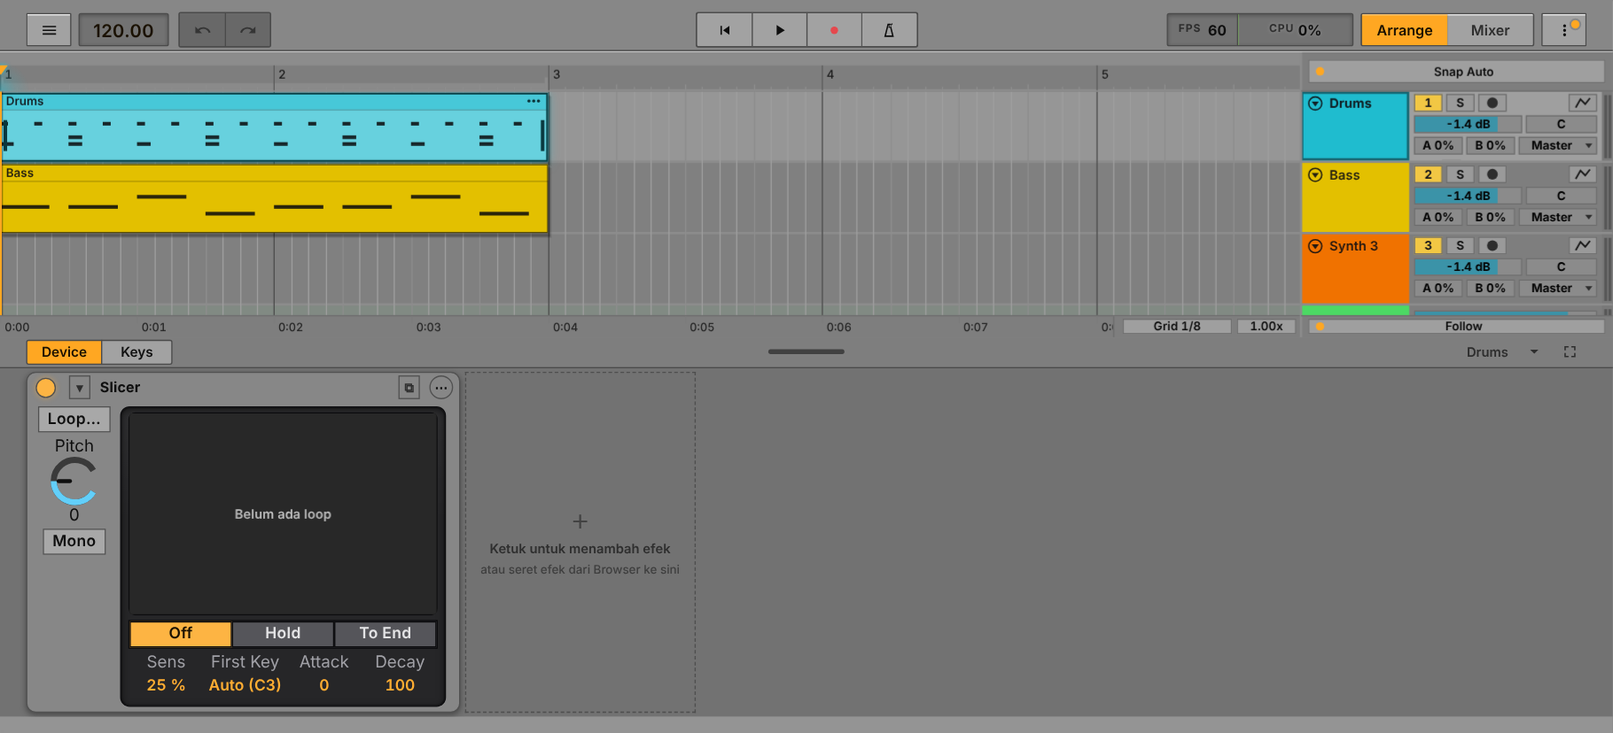
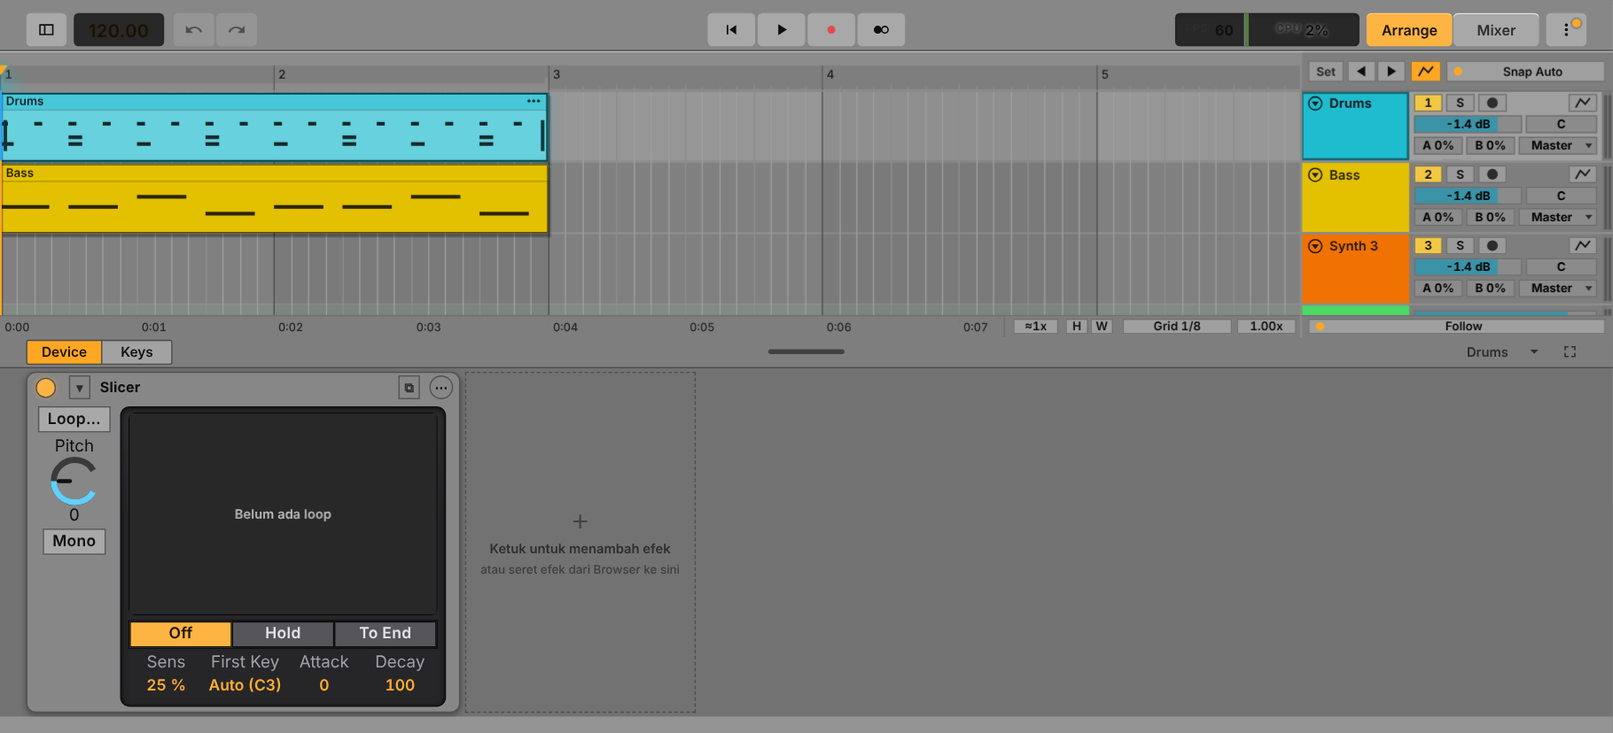
Arrangement: Automation Mode, waveform zoom, themed clip colours; control bar fields; SoundFont list scrolls
- Automation Mode switch over the headers hides / shows the automation lanes; Waveform Vertical
  Zoom badge; clip and header colours follow the theme's Color Intensity / Hue
- control bar: tempo, performance and view switch in the same flat look; lit states tested
- SoundFont: the preset list scrolls inside the card instead of stretching it
- tests: synth display drags, instrument menu, effect quick swap, SoundFont card height

Claude-Session: https://claude.ai/code/session_016R99TjSh2G5U2VqVgMNHhT

diff --git a/js/timeline.js b/js/timeline.js
@@ -2,7 +2,7 @@
 // Gestures follow FL Studio Mobile (tap clip = controls, double-tap = editor, long-tap = menus,
 // right-edge handle = resize, ruler drag = time selection) on an Ableton-style layout.
 import { densify } from './autocurve.js';
-import { C, T, currentTone } from './theme.js';
+import { C, T, currentTone, tone } from './theme.js';
 import { attachGestures, gestureTiming, haptic } from './gesture.js';
 import { menu, ask, modal, toast, clamp } from './ui.js';
 import { checkpoint, revertLast } from './history.js';
@@ -74,12 +74,12 @@ const LANE_B = () => H - BOT;                                  // bottom edge of
 // rows have individual heights: a folded track is FOLD_H tall, the others view.rowH (gliding while a fold animates)
 // below the tracks: the Master row and one row per effect track (Return A/B stay in the mixer), then the "+" row
 // top corner over the headers (Live: Set Locator, Previous / Next Locator, then our Snap switch)
-const cornerRects = () => { const y = 8, h = RULER - 16, x = CW + 6, bw = 24, sw = 30; return { set: { x, y, w: sw, h }, prev: { x: x + sw + 3, y, w: bw, h }, next: { x: x + sw + 3 + bw + 1, y, w: bw, h }, snap: { x: x + sw + 2 * bw + 9, y, w: Math.max(40, HEAD - 12 - (sw + 2 * bw + 9)), h } }; };
+const cornerRects = () => { const y = 8, h = RULER - 16, x = CW + 6, bw = 24, sw = 30; const ax = x + sw + 2 * bw + 8, aw = HEAD > 190 ? 26 : 0; return { set: { x, y, w: sw, h }, prev: { x: x + sw + 3, y, w: bw, h }, next: { x: x + sw + 3 + bw + 1, y, w: bw, h }, auto: { x: ax, y, w: aw, h }, snap: { x: ax + (aw ? aw + 4 : 0), y, w: Math.max(40, HEAD - 6 - (ax - CW) - (aw ? aw + 4 : 0)), h } }; };
 const snapRect = () => cornerRects().snap;
 const songEnd = () => state.tracks.reduce((m, t) => t.clips.reduce((a, c) => Math.max(a, c.start + c.len), m), 0);
 
 const followRect = () => ({ x: CW + 6, y: H - BOT + 3, w: HEAD - 12, h: BOT - 6 });
-const badges = () => (CW < 170 ? [] : [['gridbtn', 'Grid ' + (SNAPS[cfg.snap][0] === 'Auto' ? gridName() : SNAPS[cfg.snap][0]), { x: CW - 150, y: H - BOT + 3, w: 92, h: BOT - 6 }], ['zoombtn', (view.ppt / 0.06).toFixed(2) + 'x', { x: CW - 54, y: H - BOT + 3, w: 50, h: BOT - 6 }], ...(CW < 330 ? [] : [['fith', 'H', { x: CW - 198, y: H - BOT + 3, w: 19, h: BOT - 6 }], ['fitw', 'W', { x: CW - 177, y: H - BOT + 3, w: 19, h: BOT - 6 }]])]);
+const badges = () => (CW < 170 ? [] : [['gridbtn', 'Grid ' + (SNAPS[cfg.snap][0] === 'Auto' ? gridName() : SNAPS[cfg.snap][0]), { x: CW - 150, y: H - BOT + 3, w: 92, h: BOT - 6 }], ['zoombtn', (view.ppt / 0.06).toFixed(2) + 'x', { x: CW - 54, y: H - BOT + 3, w: 50, h: BOT - 6 }], ...(CW < 420 ? [] : [['wzoom', '\u2248' + (prefs.waveZoom || 1) + 'x', { x: CW - 242, y: H - BOT + 3, w: 38, h: BOT - 6 }]]), ...(CW < 330 ? [] : [['fith', 'H', { x: CW - 198, y: H - BOT + 3, w: 19, h: BOT - 6 }], ['fitw', 'W', { x: CW - 177, y: H - BOT + 3, w: 19, h: BOT - 6 }]])]);
 let pressed = null;                                           // which corner / badge button is under the finger (drawn highlighted)
 const nX = () => 1 + Math.max(0, state.returns.length - 2);
 const xInfo = (i) => { const j = i - state.tracks.length; return j === 0 ? { master: true, strip: MASTER, name: 'Master', color: state.master.color || '#4cd964', obj: state.master } : { master: false, k: j + 1, strip: RET0 + j + 1, name: state.returns[j + 1].name, color: state.returns[j + 1].color || '#35d0e0', obj: state.returns[j + 1] }; };
@@ -99,7 +99,9 @@ export const subLayout = (i) => (state.tracks[i] ? P.subsOf(state.tracks[i]).map
 export function setHeadW(w) { const [lo, hi] = headLim(); prefs[full() ? 'headW' : 'headWc'] = w > 0 ? Math.round(clamp(w, lo, hi)) : 0; savePrefs(); applyHead(); clampView(); invalidate(); }
 export function setHeadFull(on) { prefs.headFull = !!on; savePrefs(); applyHead(); clampView(); invalidate(); }
 export const headIsFull = () => full();
-const rowTarget = (t) => (t.fold ? FOLD_H : t.hx ? Math.round(clamp(view.rowH * t.hx, MIN_ROW, ROW_MAX)) : view.rowH) + subN(t) * SUBH();
+const WZ = () => prefs.waveZoom || 1;                          // Live's Waveform Vertical Zoom
+const autoMode = () => prefs.autoMode !== false;              // Live's Automation Mode: off hides the automation lanes
+const rowTarget = (t) => (t.kind === 'auto' && !autoMode() ? 0 : t.fold ? FOLD_H : t.hx ? Math.round(clamp(view.rowH * t.hx, MIN_ROW, ROW_MAX)) : view.rowH) + subN(t) * SUBH();
 // Sub-tracks (project.js subsOf, FL Studio Mobile): rows under the track's own row, SUBH high each, with clips of their own that play through
 // the track's instrument and mixer channel. A folded track hides them (their clips then lie in the thin row). rhMain = the track's own row.
 const subN = (t) => (t && !t.fold && t.kind !== 'auto' ? P.subsOf(t).length : 0);
@@ -215,6 +217,7 @@ function ink(hex) {                     // text on a colour: dark on light colou
 
 const contentInk = (hex) => (ink(hex).startsWith('rgba(14') ? 'rgba(10,10,12,.86)' : 'rgba(250,250,252,.88)');   // Live: black content on light clip colours, white on dark ones
 function drawClip(t, c, y, hh) {
+  { const tc = tone(t.color); if (tc !== t.color) t = { __proto__: t, color: tc }; }   // Color Intensity / Hue of the theme reach the clip colours
   const g = gl.get(c.id), cs = g ? g.s : c.start, cl = g ? g.l : c.len;
   const x = tx(cs), w = cl * view.ppt;
   if (x > CW || x + w < 0) return;
@@ -261,11 +264,11 @@ function drawClip(t, c, y, hh) {
         const N = es.pyr.l.length, two = bh >= 34 ? stereoPyr(es.pyr) : null;
         if (two) {                                                      // stereo, row tall enough: left channel in the upper half, right in the lower (as Live)
           const hh = bh / 2; ctx.save(); ctx.globalAlpha = 0.55; for (let k = 0; k < 2; k++) ctx.fillRect(px0, Math.round(by + hh * k + hh / 2), px1 - px0, 1); ctx.restore();   // centre line of each lane
-          for (let k = 0; k < 2; k++) ctx.fill(wavePath(two[k], { x0: px0, x1: px1, s0: sec0 / es.duration * N, spp: spp0 * N, mid: by + hh * k + hh / 2, amp: hh * 0.5 * 0.94 }));
-        } else { ctx.save(); ctx.globalAlpha = 0.55; ctx.fillRect(px0, Math.round(by + bh / 2), px1 - px0, 1); ctx.restore(); ctx.fill(wavePath(es.pyr, { x0: px0, x1: px1, s0: sec0 / es.duration * N, spp: spp0 * N, mid: by + bh / 2, amp: bh * 0.5 * 0.96 })); }
+          for (let k = 0; k < 2; k++) ctx.fill(wavePath(two[k], { x0: px0, x1: px1, s0: sec0 / es.duration * N, spp: spp0 * N, mid: by + hh * k + hh / 2, amp: hh * 0.5 * 0.94, gain: WZ() }));
+        } else { ctx.save(); ctx.globalAlpha = 0.55; ctx.fillRect(px0, Math.round(by + bh / 2), px1 - px0, 1); ctx.restore(); ctx.fill(wavePath(es.pyr, { x0: px0, x1: px1, s0: sec0 / es.duration * N, spp: spp0 * N, mid: by + bh / 2, amp: bh * 0.5 * 0.96, gain: WZ() })); }
       } else if (es.peaks) {
         const N = es.peaks.length;
-        ctx.fill(peaksPath(es.peaks, { x0: px0, x1: px1, s0: sec0 / es.duration * N, spp: spp0 * N, mid: by + bh / 2, amp: bh * 0.5 * 0.96 }));
+        ctx.fill(peaksPath(es.peaks, { x0: px0, x1: px1, s0: sec0 / es.duration * N, spp: spp0 * N, mid: by + bh / 2, amp: bh * 0.5 * 0.96, gain: WZ() }));
       }
     }
   } else if (c.notes && bh > 6) {
@@ -327,7 +330,7 @@ function draw() {
   ctx.save(); ctx.beginPath(); ctx.rect(0, RULER, CW, LB - RULER); ctx.clip();
   // lanes: one flat grey per track, the selected track a step lighter (as Live highlights the selected track's lane)
   for (let i = Math.max(0, rowAt(RULER)); i <= Math.min(n - 1, rowAt(LB)); i++) {
-    const y = rowY(i), h = rh(i);
+    const y = rowY(i), h = rh(i); if (h < 2) continue;   // a hidden automation lane (Automation Mode off)
     ctx.fillStyle = state.sel.track === i ? C('#333337') : C('#2a2a2c'); ctx.fillRect(0, y, CW, h);
     const sn = subN(state.tracks[i]);
     if (sn) { const mh = rhMain(i), sh = SUBH(), L = P.subsOf(state.tracks[i]); for (let k = 0; k < sn; k++) { const sy = y + mh + k * sh; ctx.fillStyle = C('#262628'); ctx.fillRect(0, sy, CW, sh); if (L[k].mute) { ctx.fillStyle = 'rgba(0,0,0,.18)'; ctx.fillRect(0, sy, CW, sh); } ctx.fillStyle = C('#1a1a1c'); ctx.fillRect(0, sy - 1, CW, 1); } }   // sub-track rows: a shade darker, a thin line above each
@@ -382,7 +385,7 @@ function draw() {
   ctx.restore();
   // clips
   const first = Math.max(0, rowAt(RULER)), last = Math.min(n - 1, rowAt(LB));
-  for (let i = first; i <= last; i++) for (const c of state.tracks[i].clips) { const b = laneBox(i, c); drawClip(state.tracks[i], c, b.y, b.h); }   // a clip of a sub-track sits in its row
+  for (let i = first; i <= last; i++) for (const c of state.tracks[i].clips) { const b = laneBox(i, c); if (b.h < 2) continue; drawClip(state.tracks[i], c, b.y, b.h); }   // a clip of a sub-track sits in its row
   if (sel) { const a = Math.max(0, tx(sel.a)), b = Math.min(CW, tx(sel.b)); ctx.fillStyle = 'rgba(255,255,255,.2)'; ctx.fillRect(a, RULER, Math.max(0, b - a), gy1 - RULER); ctx.fillStyle = 'rgba(255,255,255,.55)'; ctx.fillRect(Math.round(a), RULER, 1, gy1 - RULER); ctx.fillRect(Math.round(b), RULER, 1, gy1 - RULER); }   // Live: the selection is a white wash with bright edges
   if (marq) {
     const ax = tx(marq.t0), bx = tx(marq.t1), ay = RULER - view.y0 + marq.y0, by = RULER - view.y0 + marq.y1;
@@ -643,7 +646,8 @@ function drawHeads() {
       ctx.fillStyle = C('#141415'); ctx.fillRect(hx, y + h - 1, HEAD, 1);
       continue;
     }
-    const t = state.tracks[i], on = state.sel.track === i, r = hdr(i), auto = t.kind === 'auto';
+    let t = state.tracks[i]; if (rh(i) < 2) continue; { const tc = tone(t.color); if (tc !== t.color) t = { __proto__: t, color: tc }; }
+    const on = state.sel.track === i, r = hdr(i), auto = t.kind === 'auto';
     const nw = r.nw, ik = ink(t.color), fullLook = full();
     ctx.fillStyle = on ? C('#3a3a3e') : C('#2c2c2f'); ctx.fillRect(hx, y, HEAD, h - 1);                    // selected track: the mixer column a step lighter
     ctx.fillStyle = t.color; ctx.fillRect(hx, y, nw, h - 1);                                              // the whole name block in the track colour, as in Live
@@ -679,7 +683,8 @@ function drawHeads() {
   ctx.fillStyle = C('#2c2c2f'); ctx.fillRect(hx + 1, 0, HEAD - 1, RULER); ctx.fillStyle = C('#141415'); ctx.fillRect(hx, RULER - 1, HEAD, 1);
   { const q = cornerRects(), tri = (r, dir) => { const cx = r.x + r.w / 2, cy = r.y + r.h / 2; ctx.fillStyle = C('#d4d4d8'); ctx.beginPath(); ctx.moveTo(cx - 4 * dir, cy); ctx.lineTo(cx + 3 * dir, cy - 4.5); ctx.lineTo(cx + 3 * dir, cy + 4.5); ctx.closePath(); ctx.fill(); };
     drawBtn(q.set, 'Set', false, null, pressed !== 'locset'); for (const [r, ty, dir] of [[q.prev, 'locprev', 1], [q.next, 'locnext', -1]]) { ctx.fillStyle = pressed === ty ? C('#55555b') : C('#3a3a3e'); ctx.fillRect(r.x, r.y, r.w, r.h); ctx.strokeStyle = C('#141415'); ctx.lineWidth = 1; ctx.strokeRect(r.x + 0.5, r.y + 0.5, r.w - 1, r.h - 1); tri(r, dir); } }
-  drawSwitch(snapRect(), HEAD > 200 ? 'Snap ' + SNAPS[cfg.snap][0] : SNAPS[cfg.snap][0], cfg.snap !== SNAPS.length - 1, pressed === 'corner');
+  { const q = cornerRects(); if (q.auto.w) drawBtn(q.auto, 'aut', autoMode(), T('--accent')); }
+  drawSwitch(snapRect(), HEAD > 260 ? 'Snap ' + SNAPS[cfg.snap][0] : SNAPS[cfg.snap][0], cfg.snap !== SNAPS.length - 1, pressed === 'corner');
   // bottom corner: Follow switch (the arrangement scrolls with the playhead)
   ctx.fillStyle = C('#2c2c2f'); ctx.fillRect(hx + 1, H - BOT, HEAD - 1, BOT); ctx.fillStyle = C('#141415'); ctx.fillRect(hx, H - BOT, HEAD, 1);
   drawSwitch(followRect(), 'Follow', cfg.follow, pressed === 'follow');
@@ -801,7 +806,7 @@ function edgeScroll(x) {
 // ------------------------------------------------------------------ hit testing + actions
 function hit(x, y) {
   if (y < RULER) {
-    if (x >= CW) { const q = cornerRects(); return inRect(q.set, x, y, 2) ? { type: 'locset' } : inRect(q.prev, x, y, 1) ? { type: 'locprev' } : inRect(q.next, x, y, 1) ? { type: 'locnext' } : { type: 'corner' }; }
+    if (x >= CW) { const q = cornerRects(); return inRect(q.set, x, y, 2) ? { type: 'locset' } : inRect(q.prev, x, y, 1) ? { type: 'locprev' } : inRect(q.next, x, y, 1) ? { type: 'locnext' } : q.auto.w && inRect(q.auto, x, y, 1) ? { type: 'automode' } : { type: 'corner' }; }
     if (y < MROW + 2) { let best = null, bd = 18; for (const m of state.markers) { const d = Math.abs(x - tx(m.t)); if (d < bd) { bd = d; best = m; } } return best ? { type: 'marker', m: best } : { type: 'mrow', tick: xt(x) }; }
     if (PUon() && y > RULER - 11) {
       const dl = Math.abs(x - tx(state.punch.start)), dr = Math.abs(x - tx(state.punch.end));
@@ -1268,8 +1273,10 @@ function setup() {
       switch (t.type) {
         case 'corner': return toggleSnap();
         case 'locset': { const m = P.addMarker(Math.round(state.playing ? P.currentTick() : snapT(P.currentTick()))); toast('Locator \u201c' + m.name + '\u201d ditambahkan.', 1400); return invalidate(); }
+        case 'automode': prefs.autoMode = !autoMode(); savePrefs(); for (const tr of state.tracks) if (tr.kind === 'auto') animRow(tr); clampView(); toast('Automation Mode ' + (autoMode() ? 'nyala' : 'mati: lane otomasi disembunyikan') + '.', 1300); return invalidate();
         case 'locprev': P.jumpMarker(-1); return invalidate();
         case 'locnext': P.jumpMarker(1); return invalidate();
+        case 'wzoom': { const L = [1, 1.5, 2, 3, 4], k = L.indexOf(prefs.waveZoom || 1); prefs.waveZoom = L[(k + 1) % L.length]; savePrefs(); return invalidate(); }   // Waveform Vertical Zoom: display only
         case 'fitw': { const e = songEnd(); if (e) fitTo(0, e); return; }                              // Live's Optimize Width (W)
         case 'fith': { const avail = LANE_B() - RULER - ADD_H - nX() * XROW_H, used = contentH() - ADD_H - nX() * XROW_H; if (used > 0) { for (const tr of state.tracks) animRow(tr); view.rowH = clamp(view.rowH * avail / used, 30, ROW_MAX); view.y0 = 0; clampView(); invalidate(); } return; }   // Optimize Height (H)
         case 'cornerMenu': return menu([...SNAPS.map((s, k) => ({ label: s[0], check: cfg.snap === k, fn: () => { cfg.snap = k; invalidate(); } })), { sep: true }, { label: 'Ikuti playhead', check: cfg.follow, fn: () => { cfg.follow = !cfg.follow; } }, { label: 'Pilih semua klip', fn: () => selAll() }, { label: 'Batal pilihan', dim: !msel.size, fn: () => clearSel() }, { sep: true }, { label: 'Lipat semua track', fn: () => foldAll(true) }, { label: 'Buka semua track', fn: () => foldAll(false) }], canvasOrigin().left + Math.max(0, CW - 20), canvasOrigin().top + RULER);
@@ -1533,7 +1540,7 @@ function setup() {
   ov.addEventListener('pointerdown', (e) => {
     const r = ov.getBoundingClientRect(); canvas._last = hit(e.clientX - r.left, e.clientY - r.top);
     down.add(e.pointerId); touching = true; touchedAt = performance.now(); stopMotion();   // a touch stops any glide or fling right where it is
-    const ty = canvas._last.type; if (ty === 'corner' || ty === 'gridbtn' || ty === 'zoombtn' || ty === 'follow' || ty === 'locset' || ty === 'locprev' || ty === 'locnext' || ty === 'fith' || ty === 'fitw') { pressed = ty; invalidate(); }
+    const ty = canvas._last.type; if (ty === 'corner' || ty === 'gridbtn' || ty === 'zoombtn' || ty === 'follow' || ty === 'locset' || ty === 'locprev' || ty === 'locnext' || ty === 'fith' || ty === 'fitw' || ty === 'wzoom') { pressed = ty; invalidate(); }
   }, true);
   const release = (e) => { down.delete(e.pointerId); if (!down.size) touching = false; if (pressed) { pressed = null; invalidate(); } };
   ov.addEventListener('pointerup', release, true); ov.addEventListener('pointercancel', release, true);

diff --git a/sw.js b/sw.js
@@ -1,5 +1,5 @@
 // Offline cache. The cache name contains a hash of every file, so a new deploy replaces the old cache automatically.
-const CACHE = 'mobiledaw-861a5b56b245';
+const CACHE = 'mobiledaw-be5dec0300c0';
 const ASSETS = ["./", "./css/app.css", "./css/ableton.css", "./css/float.css", "./css/live.css", "./icons/icon-192.png", "./icons/icon-512.png", "./icons/icon-maskable-512.png", "./index.html", "./js/about.js", "./js/aboutdata.js", "./js/audioedit.js", "./js/autocurve.js", "./js/automate.js", "./js/autosave.js", "./js/browser.js", "./js/chords.js", "./js/colorpick.js", "./js/defs.js", "./js/demos.js", "./js/devices.js", "./js/devviz.js", "./js/drumpad.js", "./js/edgeguard.js", "./js/editor.js", "./js/engine.js", "./js/engine/analog.js", "./js/engine/audioops.js", "./js/engine/cmdtext.js", "./js/engine/core.js", "./js/engine/dsp.js", "./js/engine/drift.js", "./js/engine/ds.js", "./js/engine/fx.js", "./js/engine/fx2.js", "./js/engine/fx3.js", "./js/engine/fx4.js", "./js/engine/fx5.js", "./js/engine/fx6.js", "./js/engine/fx7.js", "./js/engine/fx8.js", "./js/engine/granulator.js", "./js/engine/impulse.js", "./js/engine/instruments.js", "./js/engine/live.js", "./js/engine/meld.js", "./js/engine/meter.js", "./js/engine/mp3.js", "./js/engine/mp3tables.js", "./js/engine/nativesink.js", "./js/engine/operator.js", "./js/engine/phys.js", "./js/engine/poli.js", "./js/engine/sabio.js", "./js/engine/sf2.js", "./js/engine/simpler.js", "./js/engine/flmsyn.js", "./js/engine/hdgms.js", "./js/engine/hdmfx.js", "./js/engine/hdmini.js", "./js/engine/hdsaw.js", "./js/engine/smf.js", "./js/engine/stretchworker.js", "./js/engine/tmap.js", "./js/engine/wav.js", "./js/engine/waveops.js", "./js/engine/mdaw.wasm", "./js/engine/wasmengine.js", "./js/engine/web.js", "./js/engine/worklet-wasm.js", "./js/engine/worklet.js", "./js/floatwin.js", "./js/fps.js", "./js/fxviz.js", "./js/fxkit.js", "./js/flmpanels.js", "./js/flmfx.js", "./js/flm3osc.js", "./js/flmlayout.js", "./js/flmlive.js", "./js/fxlaw.js", "./js/flmviz.js", "./js/gesture.js", "./js/history.js", "./js/import/als.js", "./js/import/build.js", "./js/import/flm.js", "./js/import/flp.js", "./js/import/fxmap.js", "./js/import/gm.js", "./js/import/index.js", "./js/import/ui.js", "./js/keymap.js", "./js/keys.js", "./js/layout.js", "./js/liveinst.js", "./js/liveui.js", "./js/log.js", "./js/main.js", "./js/midi.js", "./js/midiio.js", "./js/minimeters.js", "./js/mmdraw.js", "./js/native.js", "./js/perf.js", "./js/mixer.js", "./js/prefs.js", "./js/presetlib.js", "./js/presets.js", "./js/project.js", "./js/projects.js", "./js/pwa.js", "./js/quicksave.js", "./js/reorder.js", "./js/safdir.js", "./js/settingsui.js", "./js/storage.js", "./js/tempo.js", "./js/theme.js", "./js/timeline.js", "./js/topbar.js", "./js/touchhit.js", "./js/ui.js", "./js/uiscale.js", "./js/waveform.js", "./js/zip.js", "./manifest.json"];
 self.addEventListener('install', (e) => { e.waitUntil(caches.open(CACHE).then((c) => c.addAll(ASSETS)).then(() => self.skipWaiting())); });
 self.addEventListener('activate', (e) => {

diff --git a/js/waveform.js b/js/waveform.js
@@ -51,7 +51,7 @@ function range(p, a, b) {                                       // min / max ove
 
 // o = { x0, x1 (pixel range to draw), s0 (sample index at pixel x0), spp (samples per pixel), mid, amp (pixels for amplitude 1) }
 export function wavePath(p, o) {
-  const path = new Path2D(), n = p.l.length, { x0, x1, mid, amp, s0, spp } = o;
+  const path = new Path2D(), n = p.l.length, { x0, x1, mid, amp, s0, spp } = o, G = o.gain || 1;   // gain: Live's Waveform Vertical Zoom (display only, clipped at the lane)
   if (!(spp > 0) || !n) return path;
   const idx = (px) => s0 + (px - x0) * spp;
   let a = x0, b = x1;
@@ -63,7 +63,7 @@ export function wavePath(p, o) {
     const cnt = b - a, top = new Float32Array(cnt), bot = new Float32Array(cnt);
     for (let i = 0; i < cnt; i++) {
       range(p, idx(a + i), idx(a + i + 1));
-      let yt = mid - Math.min(1, MX) * amp, yb = mid - Math.max(-1, MN) * amp;
+      let yt = mid - Math.min(1, MX * G) * amp, yb = mid - Math.max(-1, MN * G) * amp;
       if (yb - yt < 1) { const m = (yt + yb) / 2; yt = m - 0.5; yb = m + 0.5; }
       top[i] = yt; bot[i] = yb;
     }
@@ -78,7 +78,7 @@ export function wavePath(p, o) {
       return v0 + (v1 - v0) * f;
     };
     path.moveTo(a, mid);
-    for (let px = a; px <= b; px++) path.lineTo(px, mid - Math.max(-1, Math.min(1, at(idx(px)))) * amp);
+    for (let px = a; px <= b; px++) path.lineTo(px, mid - Math.max(-1, Math.min(1, at(idx(px)) * G)) * amp);
     path.lineTo(b, mid); path.closePath();
   }
   return path;
@@ -94,7 +94,7 @@ export function peaksPath(pk, o) {
     if (u1 < 0) continue; if (u0 >= n) break;
     const b0 = Math.max(0, Math.floor(u0)), b1 = Math.min(n - 1, Math.max(b0, Math.floor(u1)));
     let m = 0; for (let b = b0; b <= b1; b++) if (pk[b] > m) m = pk[b];
-    xs.push(px + 0.5); top.push(Math.max(0.5, m * amp));
+    xs.push(px + 0.5); top.push(Math.max(0.5, Math.min(1, m * (o.gain || 1)) * amp));
   }
   if (!xs.length) return path;
   path.moveTo(xs[0], mid - top[0]);

diff --git a/js/theme.js b/js/theme.js
@@ -69,6 +69,15 @@ function adjust(map) {
 let ACT = THEMES.dark;                                    // the applied theme: the chosen one with the adjustments
 export function setThemeAdjust(a) { for (const k of Object.keys(ADJ)) if (a && typeof a[k] === 'number' && isFinite(a[k])) ADJ[k] = k === 'hue' ? Math.max(-180, Math.min(180, a[k])) : Math.max(-1, Math.min(1, a[k])); applyTheme(current); }
 export const themeAdjust = () => ({ ...ADJ });
+// a clip / track colour under the Color Intensity and Color Hue adjustments (Live shifts the clip colours with them); unchanged without them
+const toneCache = new Map();
+export function tone(hex) {
+  if (!ADJ.intensity && !ADJ.hue) return hex;
+  let r = toneCache.get(hex); if (r) return r;
+  const m = /^#([0-9a-f]{6})$/i.exec(String(hex)); if (!m) return hex;
+  const R = parseInt(m[1].slice(0, 2), 16), G = parseInt(m[1].slice(2, 4), 16), B = parseInt(m[1].slice(4, 6), 16), [hh, sat, l] = hsl(R, G, B), c = unhsl(hh + ADJ.hue, Math.max(0, Math.min(1, sat * (1 + 0.9 * ADJ.intensity))), l);
+  r = '#' + c.map((v) => Math.max(0, Math.min(255, Math.round(v))).toString(16).padStart(2, '0')).join(''); toneCache.set(hex, r); return r;
+}
 export const currentTone = () => THEME_TONE[current] || 'dark';
 let current = 'dark';
 const cache = new Map();
@@ -107,7 +116,7 @@ export const T = (token) => ACT[token];     // theme token for canvas code, e.g.
 export const currentTheme = () => current;
 export function applyTheme(name) {
   if (!THEMES[name]) name = 'dark';
-  current = name; ACT = adjust(THEMES[name]); cache.clear(); buildRamp();
+  current = name; ACT = adjust(THEMES[name]); cache.clear(); toneCache.clear(); buildRamp();
   const root = document.documentElement;
   for (const [k, v] of Object.entries(ACT)) root.style.setProperty(k, v);
   const tone = THEME_TONE[name] || name;              // derived themes reuse the CSS rules of their base

diff --git a/css/ableton.css b/css/ableton.css
@@ -1742,3 +1742,15 @@ html.reduce-motion .lk-tabpg, html.reduce-motion .flm-pg > *, html.reduce-motion
 #top #btn-browser.on { background: var(--lv-or, var(--accent)); color: #1a1100; }
 [data-w="s"] #top .tport .b, [data-w="xs"] #top .tport .b { width: 36px; min-width: 36px; }
 #top .tport, #top .grp.hist { gap: 2px; border: 0; border-radius: 0; overflow: visible; background: transparent; } #top .tport .b + .b, #top .grp.hist .b + .b { border-left: 0; }
+/* control bar fields in the same flat look: tempo, performance, view switch */
+#top-l #rd-bpm { border: 0; border-radius: 4px; box-shadow: none; background: var(--lv-well, var(--well)); }
+#top .perf { border: 0; border-radius: 4px; background: var(--lv-well, var(--well)); } #top .perf .fpsbox { border-right: 1px solid var(--lv-body, var(--panel)); }
+#top .perf #cpu, #top .cpubox #cpu { border: 0; border-radius: 0; background: transparent; }
+#top .seg { border: 0; border-radius: 4px; gap: 2px; background: transparent; overflow: visible; }
+#top .seg .b { height: var(--cb-h); border-radius: 4px; background: var(--lv-ctl); color: var(--lv-ink); }
+#top .seg .b.on { background: var(--lv-or, var(--accent)); color: #1a1100; }
+/* SoundFont: the preset list scrolls inside the card; it never makes the card taller */
+.card > .lk.lk-row.fl-live.lk-sf { flex: 1 1 0; min-height: 0; align-items: stretch; }
+.fl-live.lk-sf .lk-sfc, .fl-live.lk-sf .lk-sfdk { min-height: 0 !important; }
+.fl-live.lk-sf .lk-sfdk { display: flex; flex-direction: column; flex: 1 1 0; }
+.fl-live.lk-sf .lk-sflist { flex: 1 1 0; height: 0; min-height: 0; overflow-y: auto; overscroll-behavior: contain; }

diff --git a/docs/HANDOFF.md b/docs/HANDOFF.md
@@ -746,6 +746,8 @@ Permintaan pemilik: SEMUA efek dan instrumen diganti dengan set stok Ableton Liv
 - **Arrangement mengikuti manual Live 12 bab 6** (`js/timeline.js`): (strip Overview sempat ada, dihapus atas permintaan pemilik: `OV = 0`), pojok header **Set / ◀ / ▶ locator** + Snap (`cornerRects`), tombol **H / W** (Optimize Height / Width) di kanan bawah, pita grid selang-seling, **insert marker biru berkedip** saat stop. Tes: `node tools/arr-live-test.mjs` (screenshot di `docs/redesign/arr`).
 - **Tema fleksibel** (`js/theme.js`): `setThemeAdjust({ tone, brightness, contrast, intensity, hue })` di atas tema mana pun (`ACT` = tema + penyesuaian; `prefs.themeAdj`), `prefs.gridInt` = Grid Line Intensity. Slider di Pengaturan → Tampilan. Tema baru: Dark Neutral Medium Contrast, Light Neutral Medium / Low Contrast. Warna klip tidak ikut berubah.
 - **Control bar**: tombol terpisah, rata, tanpa garis luar, radius 4 px, satu tinggi; ikon metronom dua titik dan ikon browser panel ala Live (`ui.js` `metro`, `panel`).
+- **Arrangement, lanjutan**: tombol **Automation Mode** di pojok header (`prefs.autoMode`; mati = lane otomasi tinggi 0), **Waveform Vertical Zoom** (`prefs.waveZoom`, lencana `≈1x` kanan bawah; `wavePath`/`peaksPath` opsi `gain`), warna klip + header ikut Color Intensity / Hue (`theme.js tone()`). Kotak tempo, FPS/CPU, Arrange/Mixer ikut gaya rata.
+- **SoundFont**: daftar preset menggulir di dalam card (`.lk-sf .lk-sflist` flex 1 1 0), card tidak lagi memanjang.
 - Belum: instrumen replika Live (Drift, Operator, Analog, Poli, Meld, Wavetable, Simpler, Impulse, Granulator, Electric/Tension/Collision, DS) tidak diubah; penanda slice di display Slicer belum ada.
 
 - **Card modul FLM = device Live** (permintaan pemilik: bahasa desain, perilaku dan interaksi card FX Ableton Live): `fxkit.js flmLive` + komposisi per modul di `js/flmlive.js` (37 efek + Transistor Bass / Slicer), dibangun dari bagian yang sama dengan panel Live 12 (`k.dk` display gelap, `k.NT` angka oranye, `k.TL`, `lk-ch`). Pola: kolom knob kiri (`L`) | display (`D`: grafik `flmviz`, `handles` yang diseret seperti Live - EQ band bernomor, ring Filter freq/reso, Threshold Compressor / Gate / Limiter, crossover Multiband, X/Y Waveshaper & Multi FX, 8 band Graphic / Tuned EQ; `tabs` = tombol mode di bawah grafik; `rows` = baris angka di dalam display, `table` = tabel band ala Multiband Dynamics; `tap` keyboard Pitcher; `piano` Scale) | baris knob di bawah display (`B`, ala Chorus-Ensemble / Phaser-Flanger / Auto Pan) | kolom kanan (`R`) dengan Dry/Wet di bawah (`'-'`). Equalizer meniru EQ Eight: band terpilih (Freq / Gain / Q di kiri, tombol 1-4 + tipe + channel di bawah display). `{ sw }` = Sync ala Live (menu saat Sync, knob saat bebas). Tes interaksi nyata di `tools/flmfx-shots.mjs` (seret ring Filter, ketuk keyboard Pitcher 2). 3x Osc masih memakai `flmLayout` (tab).
